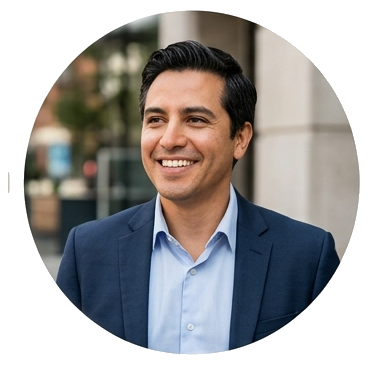
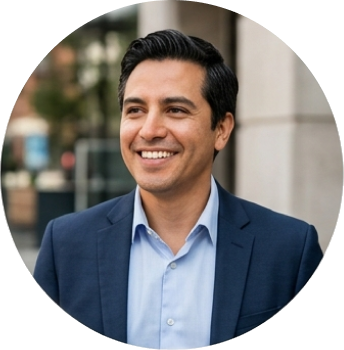
base do card completo

diff --git a/assets/CSS/style.css b/assets/CSS/style.css
@@ -1,17 +1,28 @@
 .container {
+    width: 500px;
     margin: 10px;
     border: solid #111;
+    border-radius: 40px;
 
+}
+
+p {
+  color: #111;
+  font-size: 20px;
+  font-family: 'Inter', Arial, Helvetica, sans-serif;
 }
 
 .image1 {
-  
+  height: 100px;
+  width: 100px;
 }
 
 .nome {
-
+  color: #111;
+  font-family: 'Inter','Segoe UI', sans-serif;
 }
 
 .cargo {
-  
+  color: #111;
+  font-family: 'Inter', 'Segoe UI', sans-serif;
 }
